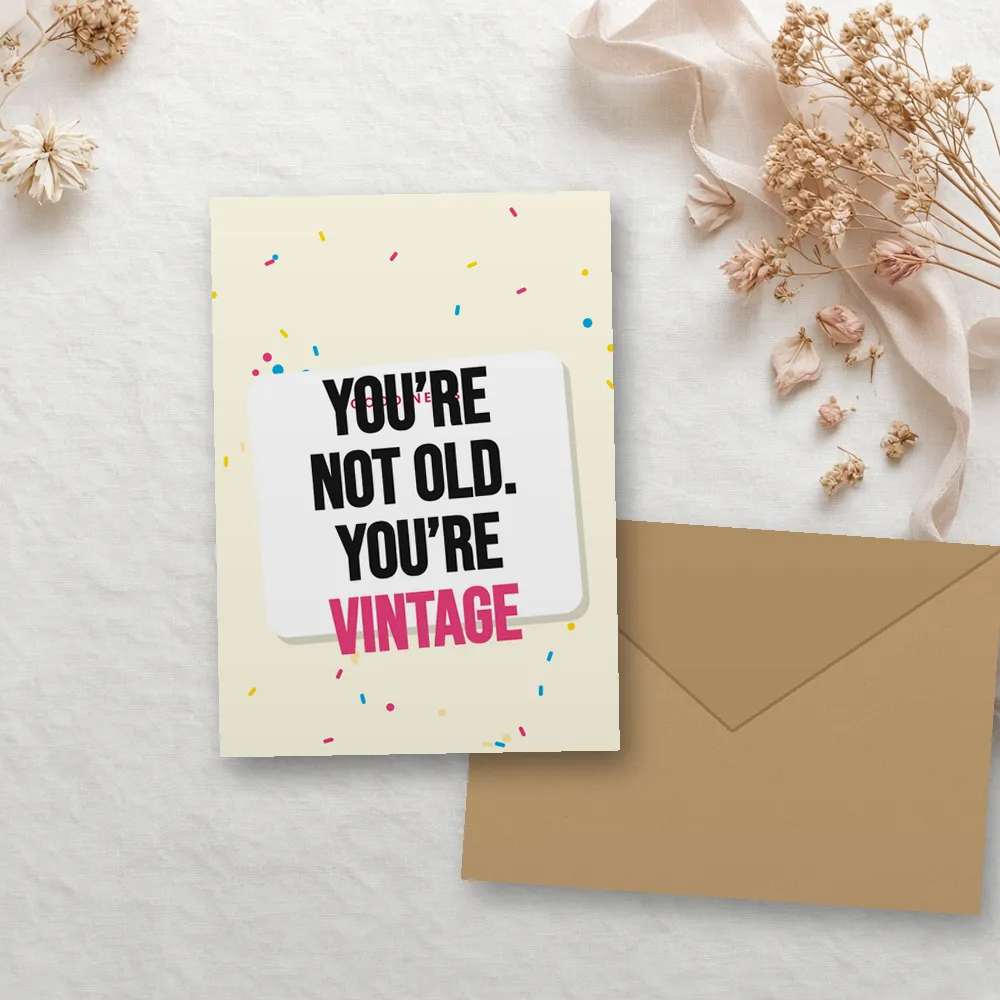
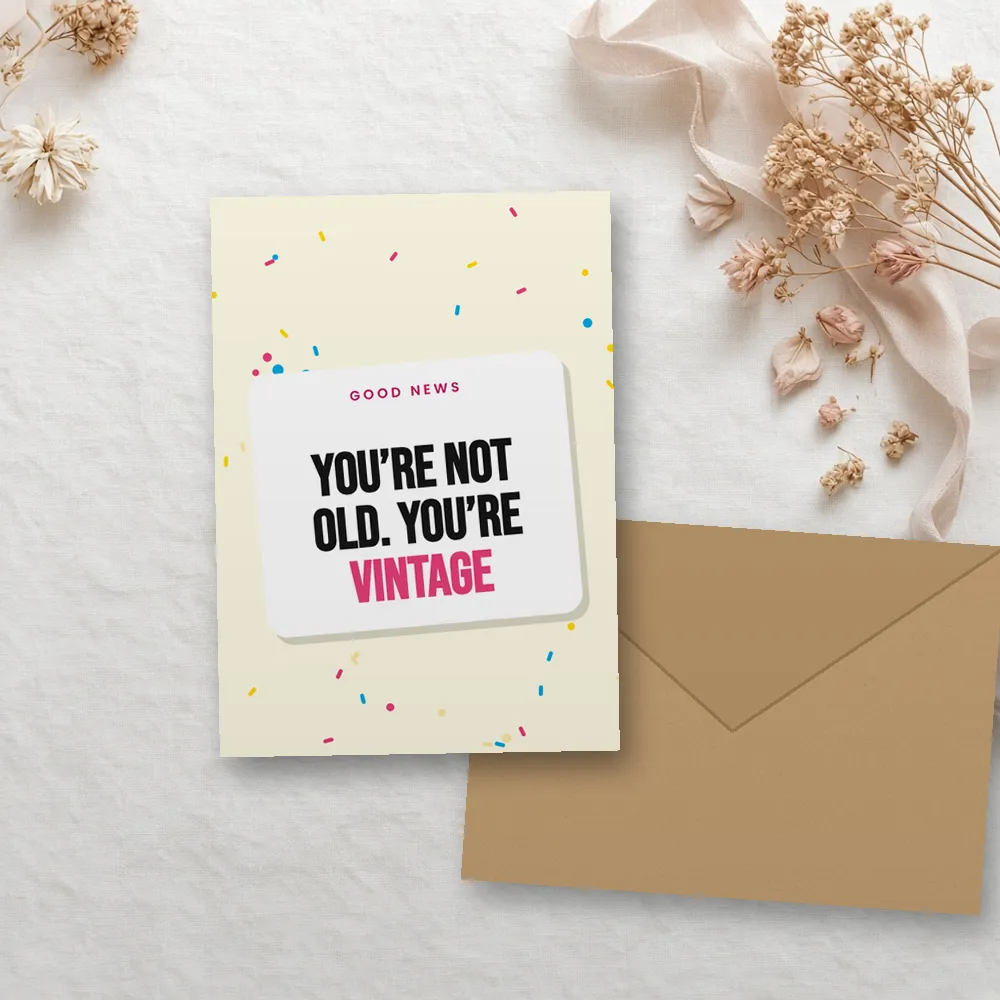
cards: fix sticker layout kicker overlap (ghost 'GOOD NEWS' behind headline); re-export birthday-funny-01 img/photo/scene/inside
engine.js sticker layout: kicker moved to y252, headline centred at y410 and auto-shrunk until it fits the panel below the kicker.
Same fix applied to ops/tch-revenue/cards/build/engine.js (print_file.py source), so print files are fixed too.
Other sticker designs with kickers are fixed in code but their images are not re-exported yet (run render_all.sh). Not pushed.

Changed region(s): [[0.31, 0.341, 0.527, 0.651]]

diff --git a/cards/engine.js b/cards/engine.js
@@ -73,7 +73,7 @@ number:function(t,p,r,h,k,font){var num=t.num||h,nf=t.nfont||'bebas',ns=String(n
 arch:function(t,p,r,h,k,font){var o=M[t.motif](p,r,[0,0,500,700]);o+='<path d="M70 360 V 210 A 180 180 0 0 1 430 210 V 360z" fill="'+p.acc[3]+'"/>'+ill(t,p,250,240,1.1)+'<rect x="40" y="360" width="420" height="300" fill="'+p.bg+'"/>'+kick(k,410,p.k||p.acc[0]);var T=txt(words(h,t.accent),250,545,font,400,Math.min(t.size||70,74),2,p.ink,p.acc[0]);return o+T.svg;},
 frame:function(t,p,r,h,k,font){var o=M[t.motif](p,r,[60,60,440,640])+'<rect x="34" y="34" width="432" height="632" rx="4" fill="none" stroke="'+p.acc[0]+'" stroke-width="2.5"/><rect x="46" y="46" width="408" height="608" rx="2" fill="none" stroke="'+p.acc[0]+'" stroke-width="1" opacity=".7"/>'+ill(t,p,250,190,.8)+kick(k,320,p.k||p.acc[0],'playfair');var T=txt(words(h,t.accent),250,440,font,360,t.size||80,3,p.ink,p.acc[0],null,font==='vibes'?400:700);return o+T.svg+'<path d="M200 560 h100" stroke="'+p.acc[0]+'" stroke-width="2"/><circle cx="250" cy="560" r="4" fill="'+p.acc[0]+'"/>';},
 block:function(t,p,r,h,k,font){var o='<rect x="0" y="380" width="500" height="320" fill="'+p.acc[0]+'"/>'+M[t.motif](p,r,[0,300,500,700])+ill(t,p,250,250,1.15)+kick(k,440,p.panel);var T=txt(words(h,t.accent),250,550,font,410,t.size||70,3,p.panel,p.panel);return o+T.svg;},
-sticker:function(t,p,r,h,k,font){var o=M[t.motif](p,r,null);o+='<g transform="rotate(-4 250 380)"><rect x="52" y="210" width="396" height="330" rx="26" fill="'+p.ink+'" opacity=".15" transform="translate(8 10)"/><rect x="52" y="210" width="396" height="330" rx="26" fill="'+p.panel+'"/>'+kick(k,252,p.k||p.acc[0]);var ms=t.size||64,cy=k?410:395,T=txt(words(h,t.accent),250,cy,font,340,ms,4,p.ink,p.acc[0]);if(k&&T.h>232){T=txt(words(h,t.accent),250,cy,font,340,Math.floor(ms*232/T.h),4,p.ink,p.acc[0]);}o+=T.svg+'</g>';if(t.ill&&t.ill!=='none')o+=ill(t,p,390,580,.55);return o;}
+sticker:function(t,p,r,h,k,font){var o=M[t.motif](p,r,null);o+='<g transform="rotate(-4 250 380)"><rect x="52" y="210" width="396" height="330" rx="26" fill="'+p.ink+'" opacity=".15" transform="translate(8 10)"/><rect x="52" y="210" width="396" height="330" rx="26" fill="'+p.panel+'"/>'+kick(k,252,p.k||p.acc[0]);var ms=t.size||64,cy=k?410:395,T=txt(words(h,t.accent),250,cy,font,340,ms,4,p.ink,p.acc[0]);while(k&&T.h>232&&ms>30){ms-=2;T=txt(words(h,t.accent),250,cy,font,340,ms,4,p.ink,p.acc[0]);}o+=T.svg+'</g>';if(t.ill&&t.ill!=='none')o+=ill(t,p,390,580,.55);return o;}
 };
 function render(t,opts){opts=opts||{};var p=t.pal,r=rng(t.id),font=opts.font||t.font,head=opts.headline!=null?opts.headline:t.headline,k=opts.sub!=null?opts.sub:(t.kicker!=null?t.kicker:t.sub);
 var o='<svg xmlns="http://www.w3.org/2000/svg" viewBox="0 0 500 700" width="'+(opts.w||500)+'" height="'+(opts.h||700)+'"><rect width="500" height="700" fill="'+p.bg+'"/>';
